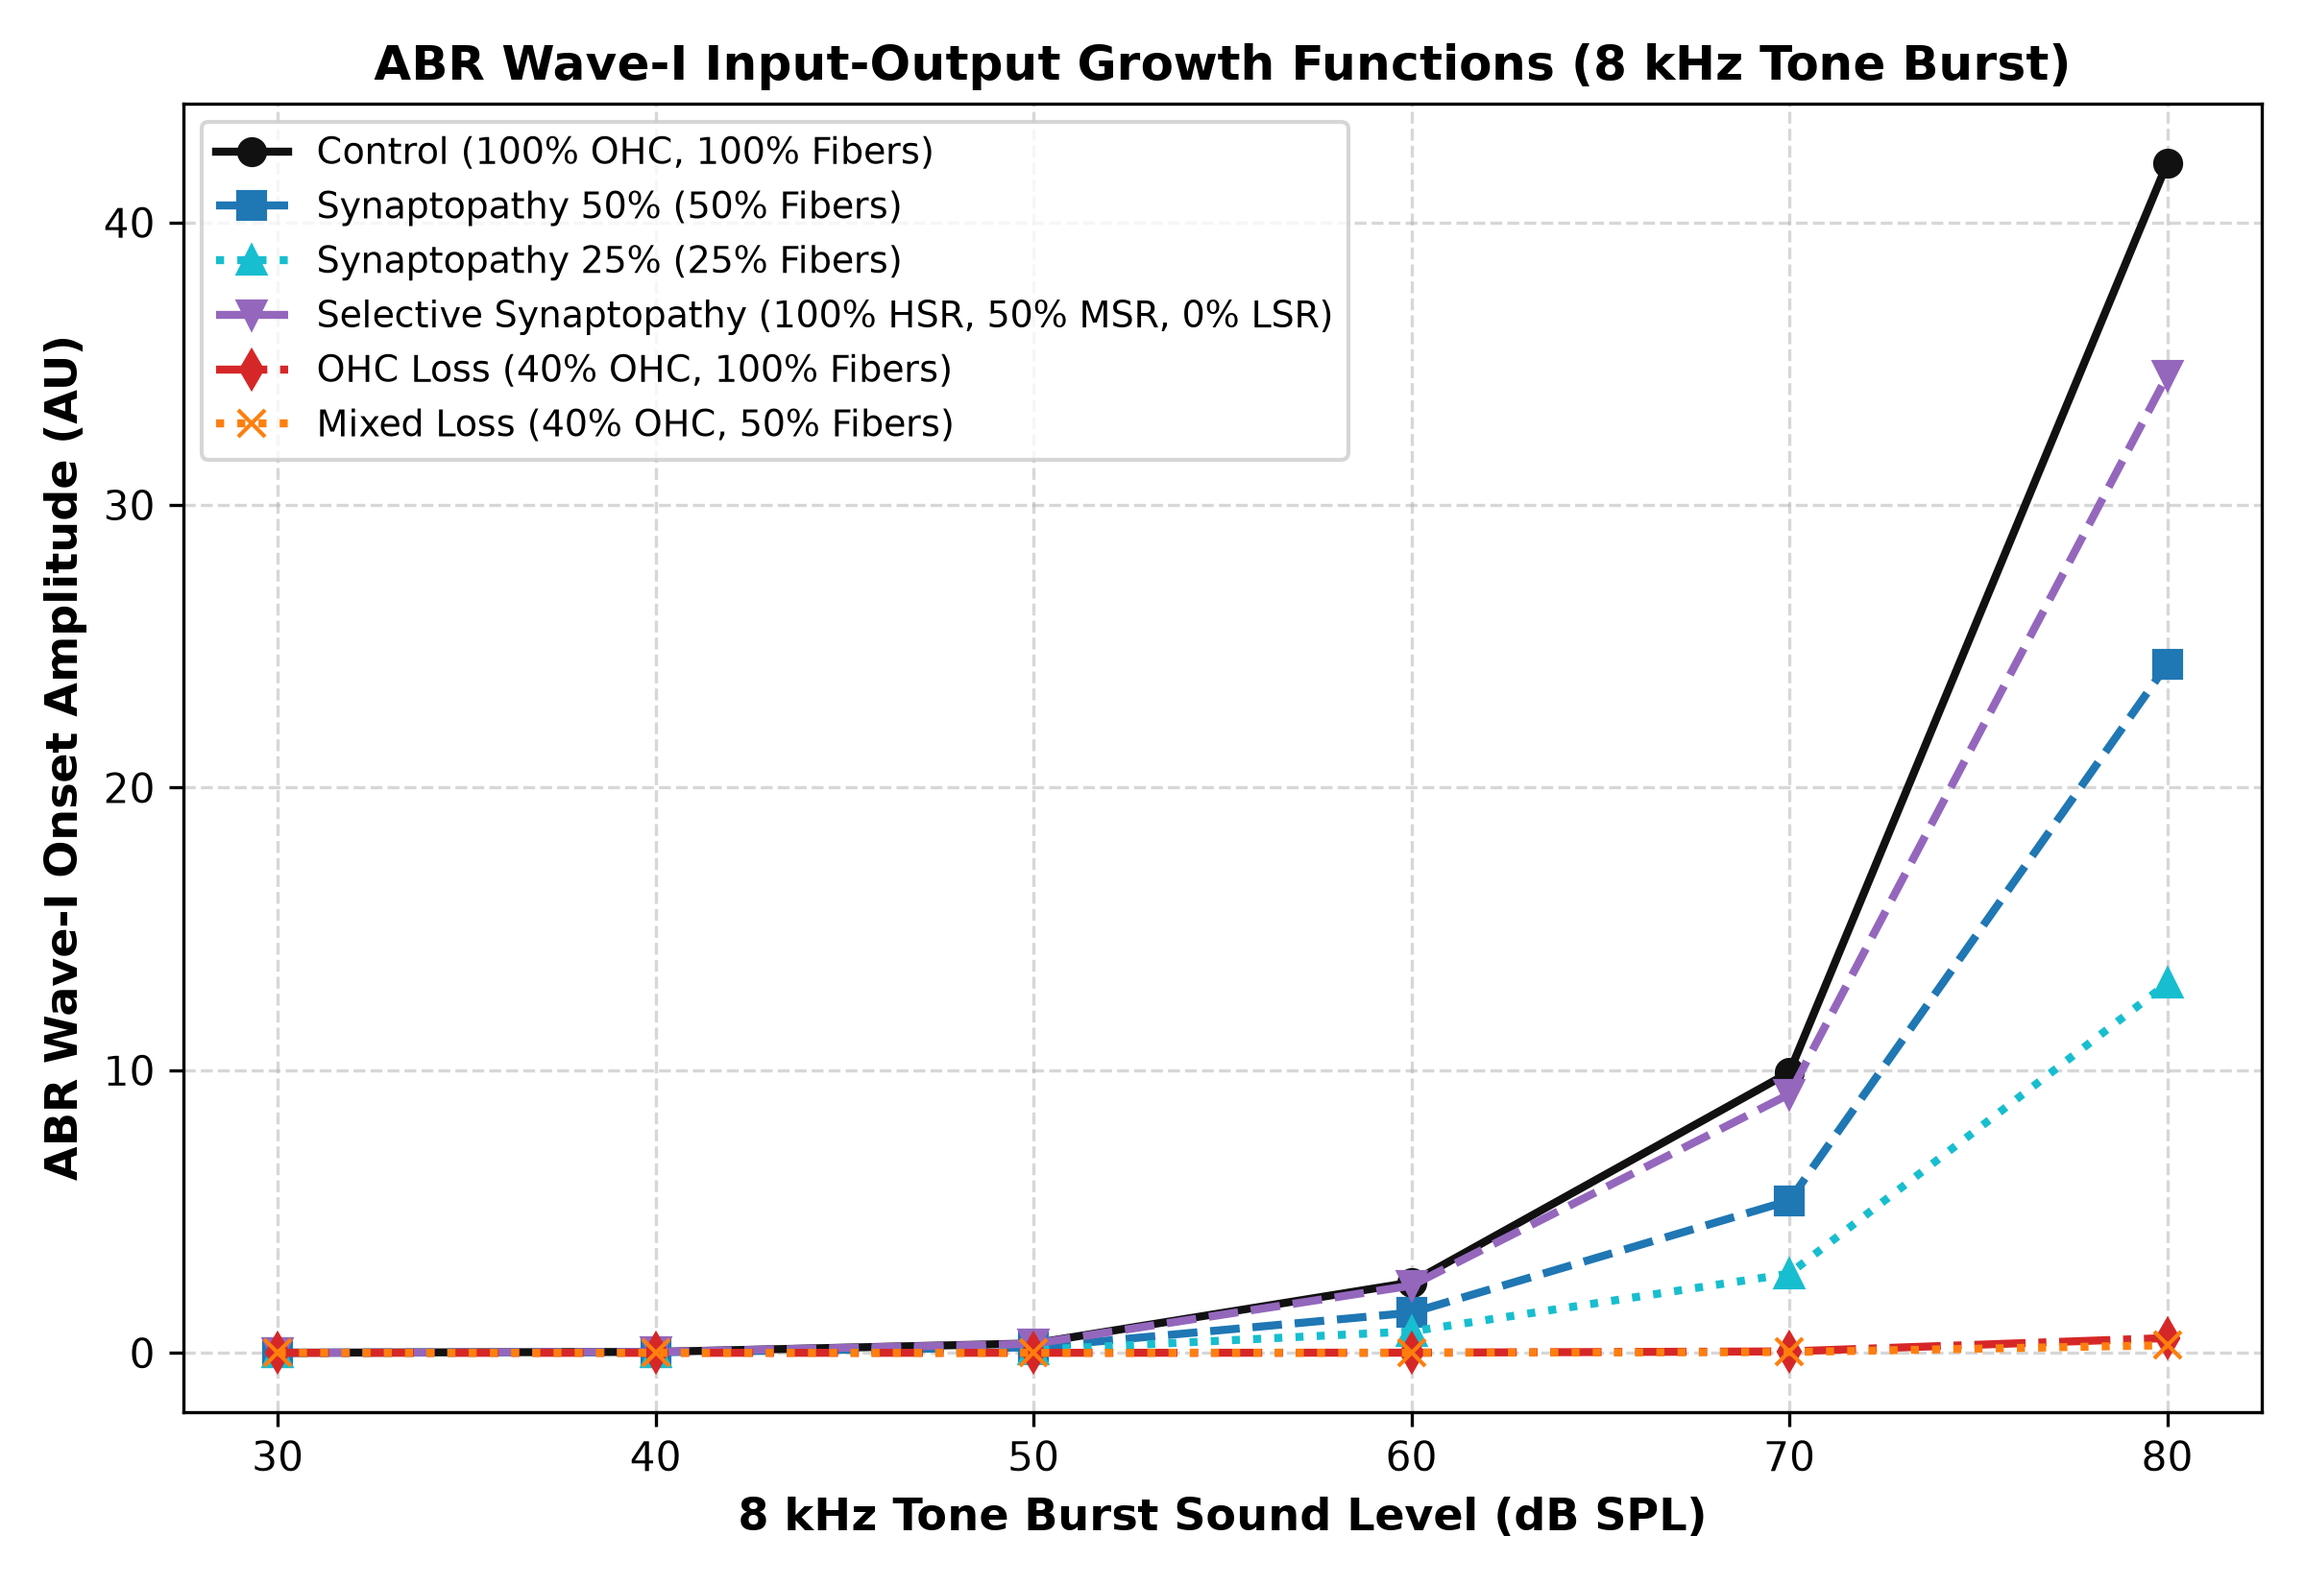
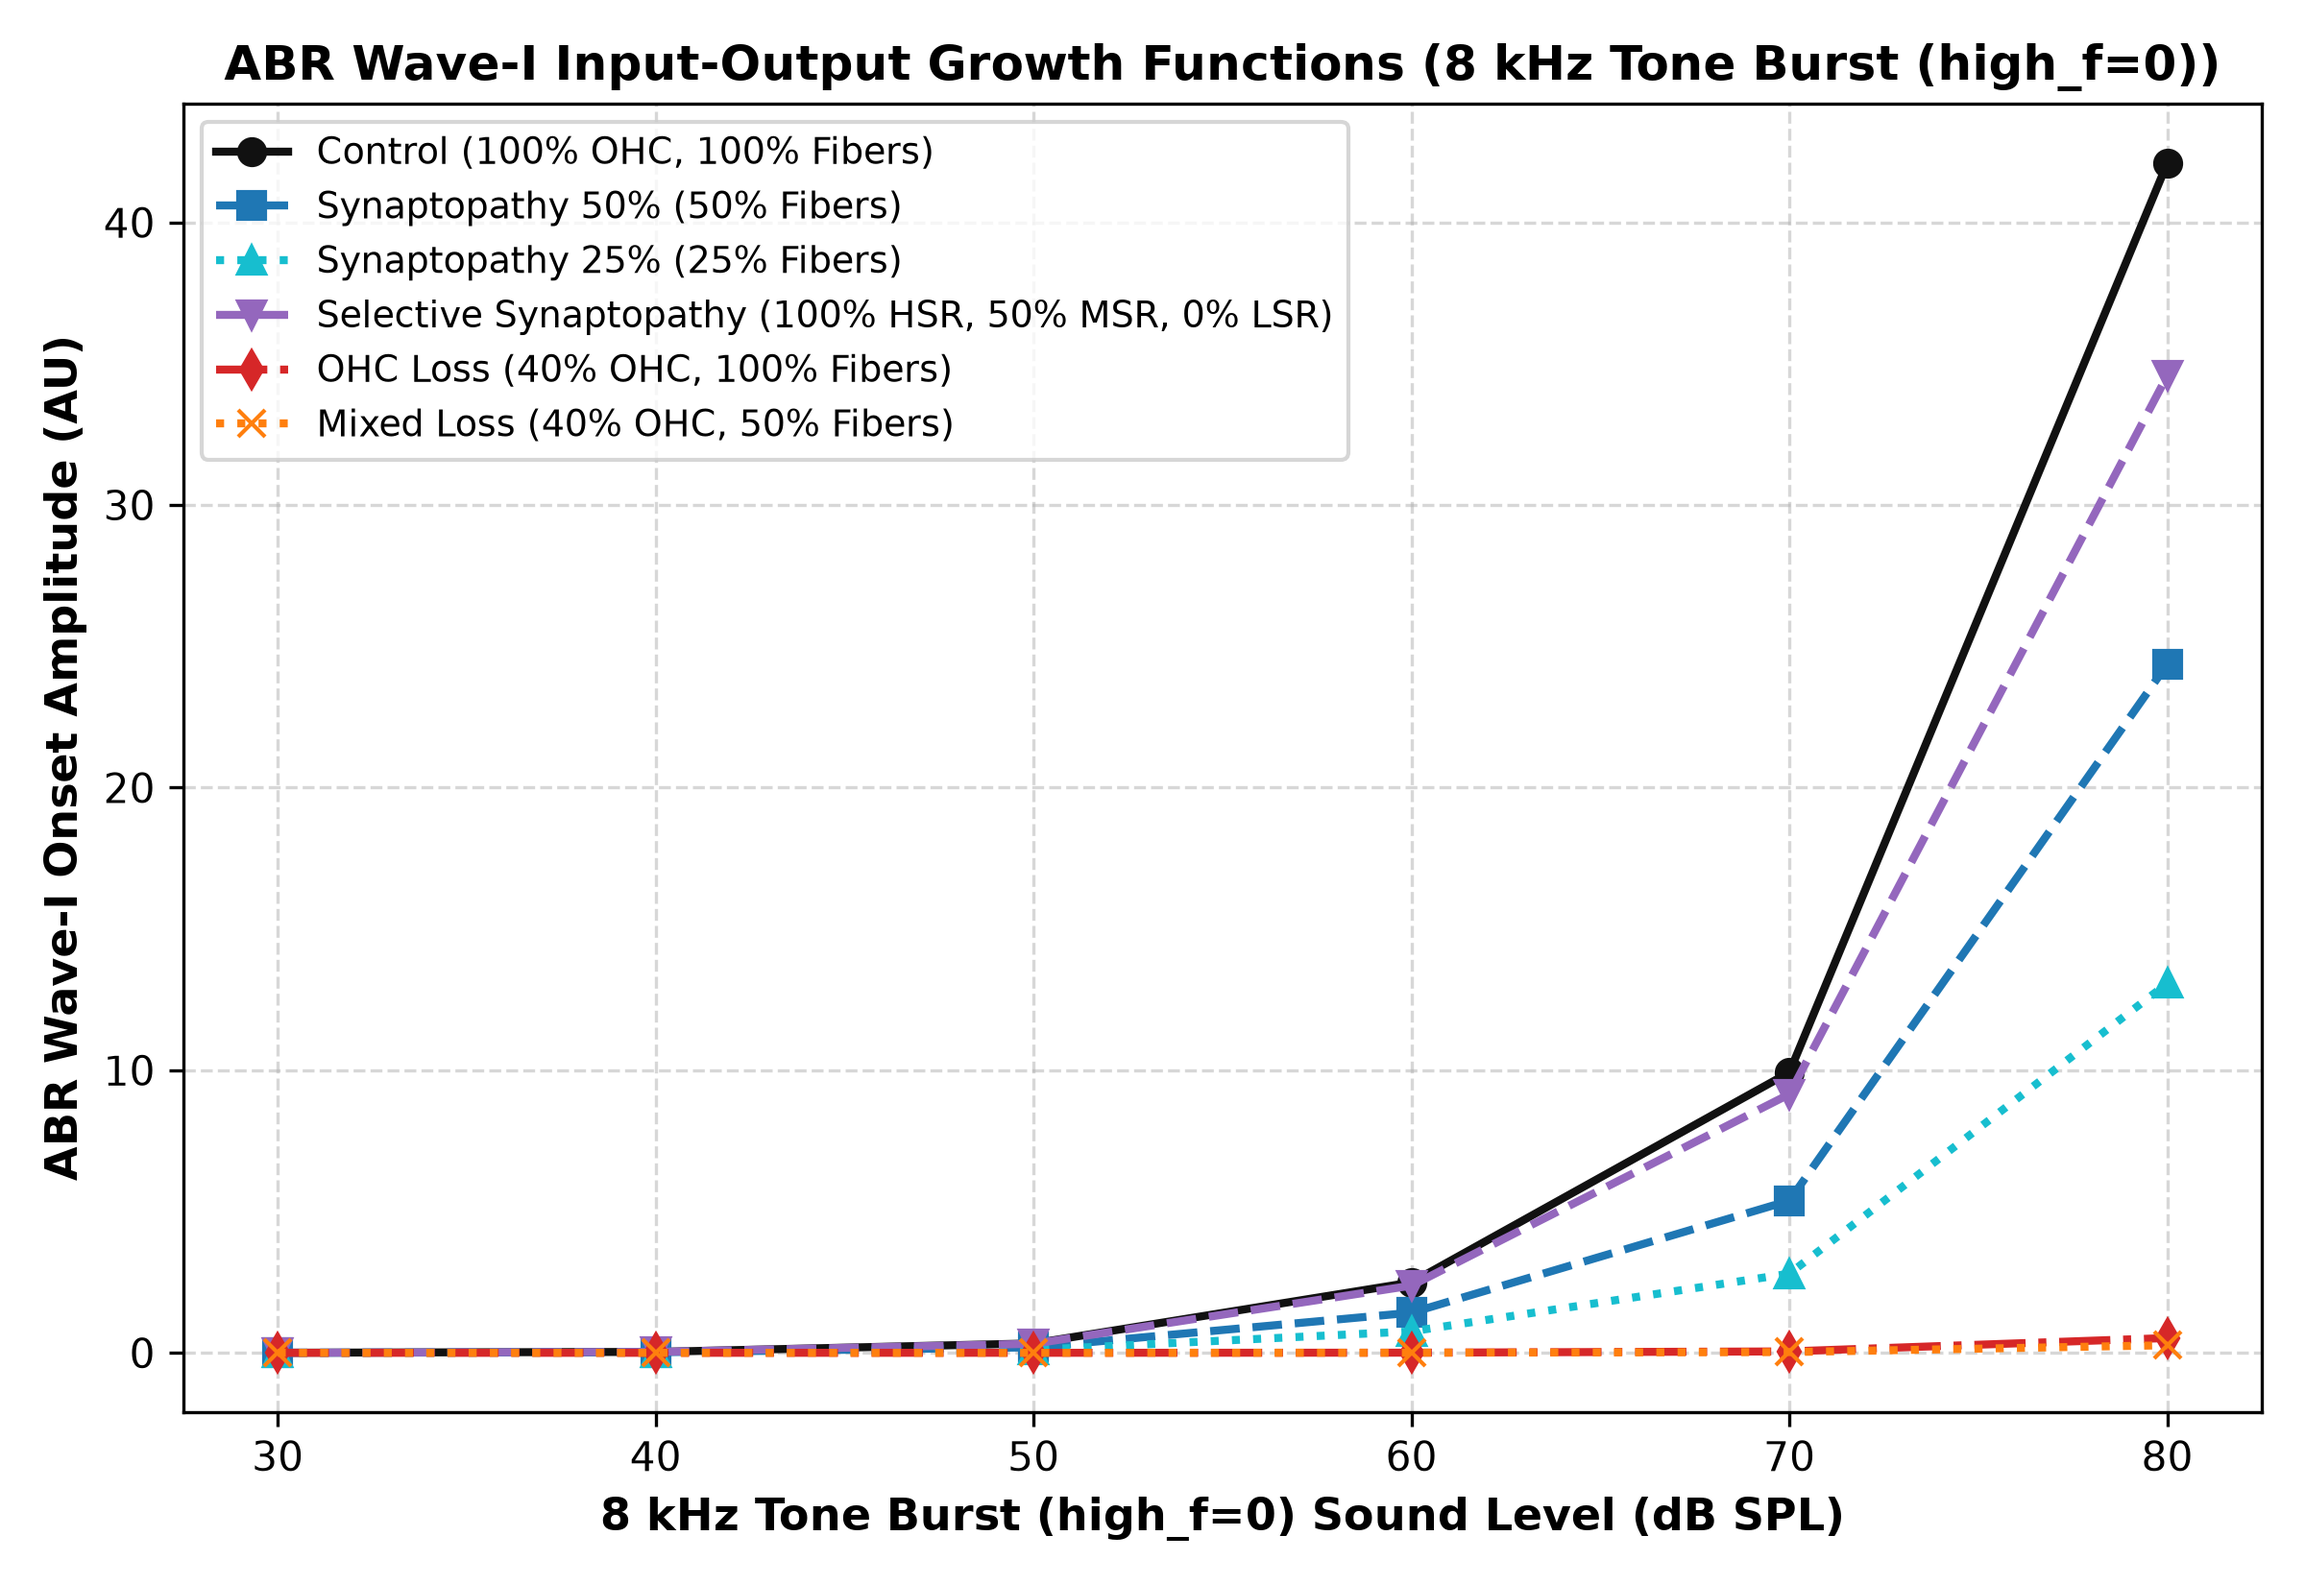
docs(readme): document calibration strategies, high_f_factor, and CLI options

Changed region(s): [[0.25, 0.9273, 0.7812, 0.9891], [0.0938, 0.0309, 0.9688, 0.0618]]

diff --git a/README.md b/README.md
@@ -146,8 +146,11 @@ Tone burst stimuli (5 ms duration, 0.5 ms linear rise/fall ramps, 20 Hz stimulat
 
 ![4 kHz Tone-Burst ABR Wave-I Growth](assets/abr_wave_i_growth_4k.png)
 
-#### 8 kHz Tone-Burst ABR Wave-I (30–80 dB SPL)
+#### 8 kHz Tone-Burst ABR Wave-I (30–80 dB SPL, high_f=0)
 `carfac_ephys.fit_response_scale_uv_per_au(..., frequency_hz=8000.0)` matches the Control response at 80 dB SPL to the pre-exposure chinchilla 8 kHz Wave-I amplitude ($1.0985$ µV), giving $\approx 0.0261$ µV/AU.
+
+> [!NOTE]
+> CARFAC's `high_f_factor` parameter (`default: 0.0`) adjusts the pole distribution and damping for channels near Nyquist ($>4$ kHz) relative to $f_s$, allowing fine-tuning of 8 kHz tone-burst sensitivity relative to 4 kHz. The title reflects the active factor (e.g. `8 kHz Tone Burst (high_f=0)`).
 
 | Condition | 30 dB SPL | 40 dB SPL | 50 dB SPL | 60 dB SPL | 70 dB SPL | 80 dB SPL |
 | :--- | :---: | :---: | :---: | :---: | :---: | :---: |
@@ -210,6 +213,27 @@ Carrier $f_c = 2000$ Hz, modulation frequency $f_m = 100$ Hz, $100\%$ modulation
 
 ---
 
+### 3.4 Calibration Strategies (AU to µV Scaling)
+
+`carfac-ephys` supports three distinct calibration strategies to convert arbitrary response units (AU) to physical microvolts (µV) matching empirical chinchilla recordings:
+
+1. **`individual` (Default)**:
+   Every stimulus mode and frequency is scaled to its **own** 80 dB pre-exposure amplitude from the empirical chinchilla dataset (Bharadwaj et al. 2022).
+   - Click scale factor: $\approx 0.0316$ µV/AU
+   - 4 kHz tone-burst scale factor: $\approx 0.0149$ µV/AU
+   - 8 kHz tone-burst scale factor: $\approx 0.0261$ µV/AU
+   - 4/8 kHz composite average scale factor: $\approx 0.0184$ µV/AU
+
+2. **`mode-dependent`**:
+   Broadband clicks use their dedicated click calibration factor ($\approx 0.0316$ µV/AU), while tone-bursts share a **single common scale factor** determined by `--calibration-reference` (default: `average`, or optionally `4k` or `8k`). This preserves relative frequency sensitivity between 4 kHz and 8 kHz tone bursts while accounting for spectral differences against broadband clicks.
+
+3. **`unified`**:
+   A **single universal scale factor** is applied across all stimuli (clicks and tone bursts alike), determined by `--calibration-reference` (default: `average`, or optionally `click`, `4k`, or `8k`).
+
+Threshold shift evaluation ($0.1$ µV criterion) scales directly with the chosen strategy, while suprathreshold post/pre ratios ($A_{\text{exposed}} / A_{\text{control}}$) are scale-invariant.
+
+---
+
 ## 4. Reproduction Steps
 
 ### Prerequisites
@@ -227,7 +251,7 @@ uv sync
 
 ### 2. Run Automated Test Suite
 
-Verify all 166 unit and integration tests:
+Verify all 174 unit and integration tests:
 ```bash
 uv run pytest -v
 ```
@@ -237,8 +261,17 @@ uv run pytest -v
 Execute simulations across cohorts using the CLI tool:
 
 ```bash
-# Run both click and tone-burst simulations (default)
+# Run both click and tone-burst simulations with individual calibration (default)
 uv run carfac-ephys-simulate --output-dir output/ --stimulus all
+
+# Run with mode-dependent calibration using composite average reference
+uv run carfac-ephys-simulate --output-dir output/ --calibration-strategy mode-dependent --calibration-reference average
+
+# Run with unified calibration using click reference
+uv run carfac-ephys-simulate --output-dir output/ --calibration-strategy unified --calibration-reference click
+
+# Run with custom high_f_factor adjusting CARFAC high-frequency tuning (>4 kHz)
+uv run carfac-ephys-simulate --output-dir output/ --high-f-factor 0.5
 
 # Run broadband click and EFR simulations only
 uv run carfac-ephys-simulate --output-dir output/ --stimulus click
@@ -299,23 +332,24 @@ carfac-ephys/
 ├── assets/                     # Published diagnostic figures
 │   ├── abr_wave_i_growth.png
 │   ├── abr_wave_i_growth_click.png
+│   ├── abr_wave_i_growth_4k.png
+│   ├── abr_wave_i_growth_8k.png
+│   ├── abr_wave_i_growth_avg.png
 │   ├── abr_wave_i_growth_tone_burst.png
+│   ├── tone_burst_waveforms.png
 │   ├── efr_growth.png
-│   └── empirical_comparison.png
 │   ├── empirical_comparison.png
-│   ├── simulation_report.md
-│   └── tone_burst_waveforms.png
+│   └── simulation_report.md
 ├── src/
 │   └── carfac_ephys/
 │       ├── __init__.py
 │       ├── constants.py        # Calibration constants (104 dB SPL = 0 dB FS)
-│       ├── stimuli.py          # Calibrated click and SAM tone generation
 │       ├── stimuli.py          # Calibrated click, SAM tone, and tone-burst generation
-│       ├── carfac_model.py     # Biophysical CARFAC wrapper (OHC & fiber retention)
+│       ├── carfac_model.py     # Biophysical CARFAC wrapper (OHC & fiber retention, high_f_factor)
 │       ├── electrophysiology.py # ABR Wave-I and EFR metric extractors
 │       ├── empirical.py        # Chinchilla ABR dataset loader (Bharadwaj et al. 2022)
 │       ├── data/               # Packaged empirical data files
-│       ├── experiment.py       # Cohort definitions, level sweeps, validation
+│       ├── experiment.py       # Cohort definitions, level sweeps, calibration strategies, validation
 │       └── cli.py              # CLI entry point (carfac-ephys-simulate)
 └── tests/
     ├── test_stimuli.py
